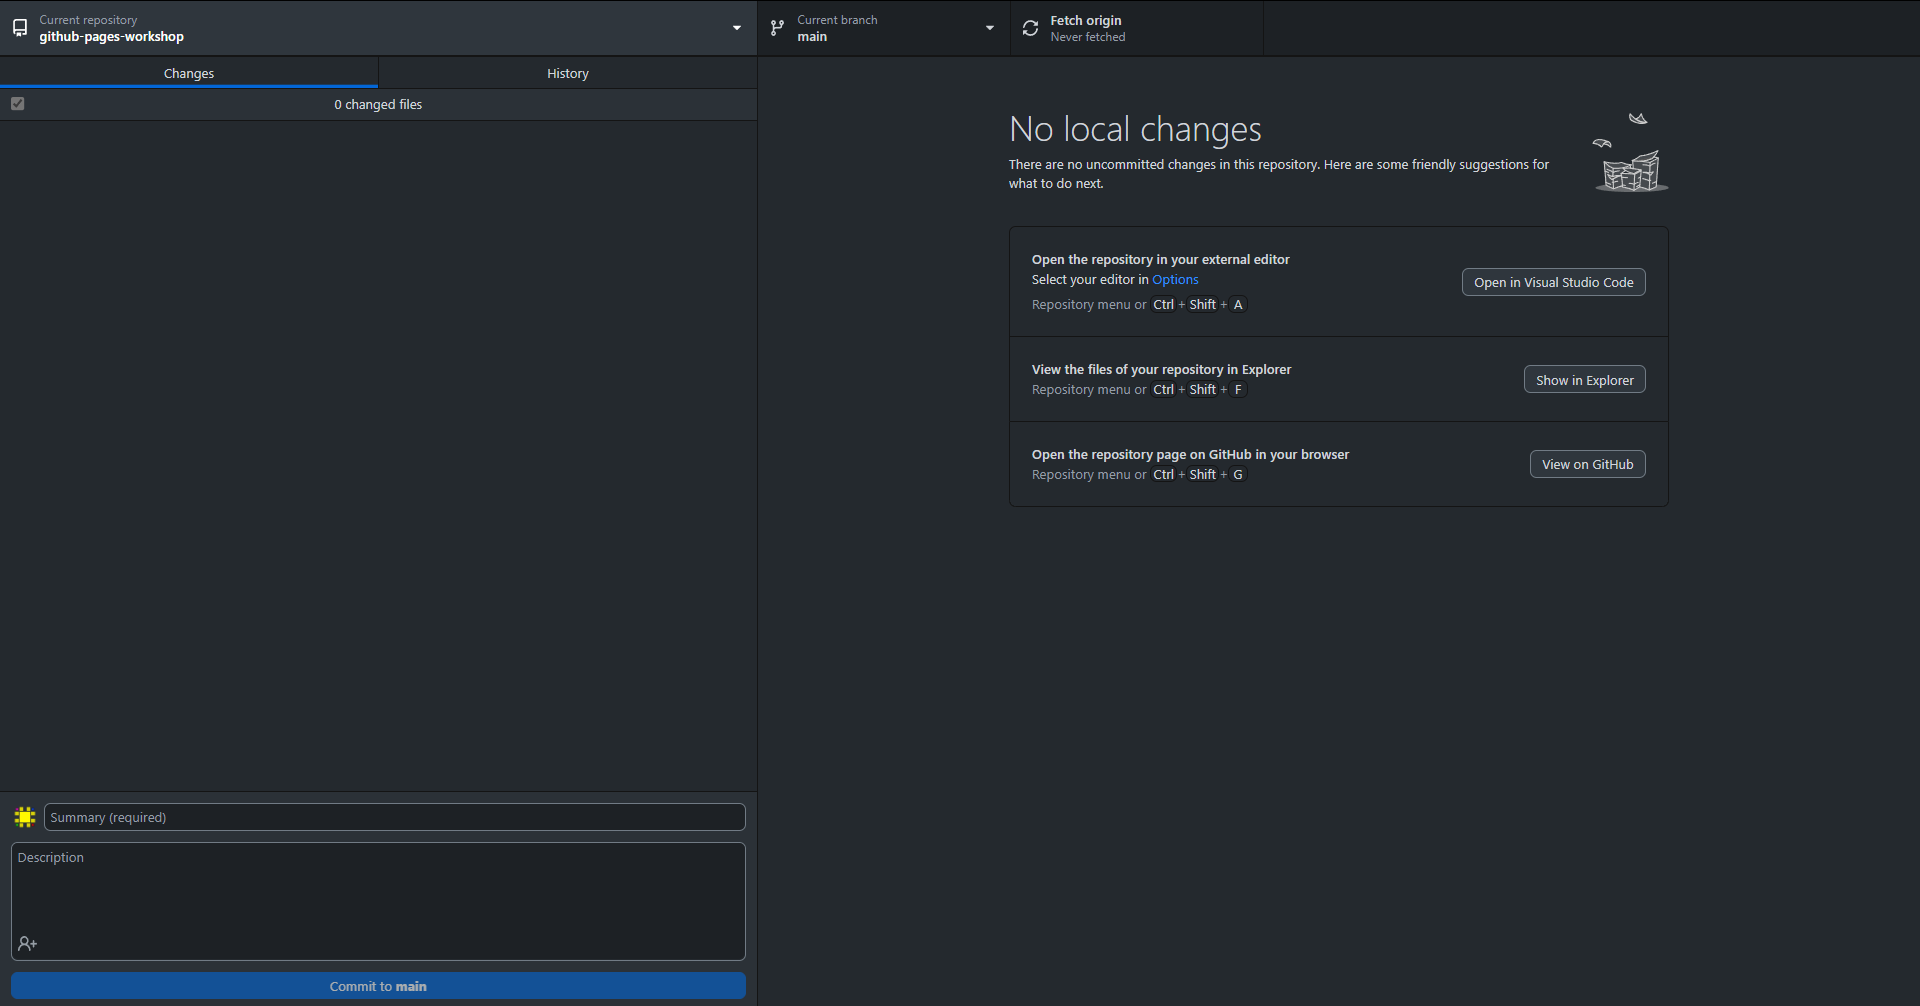
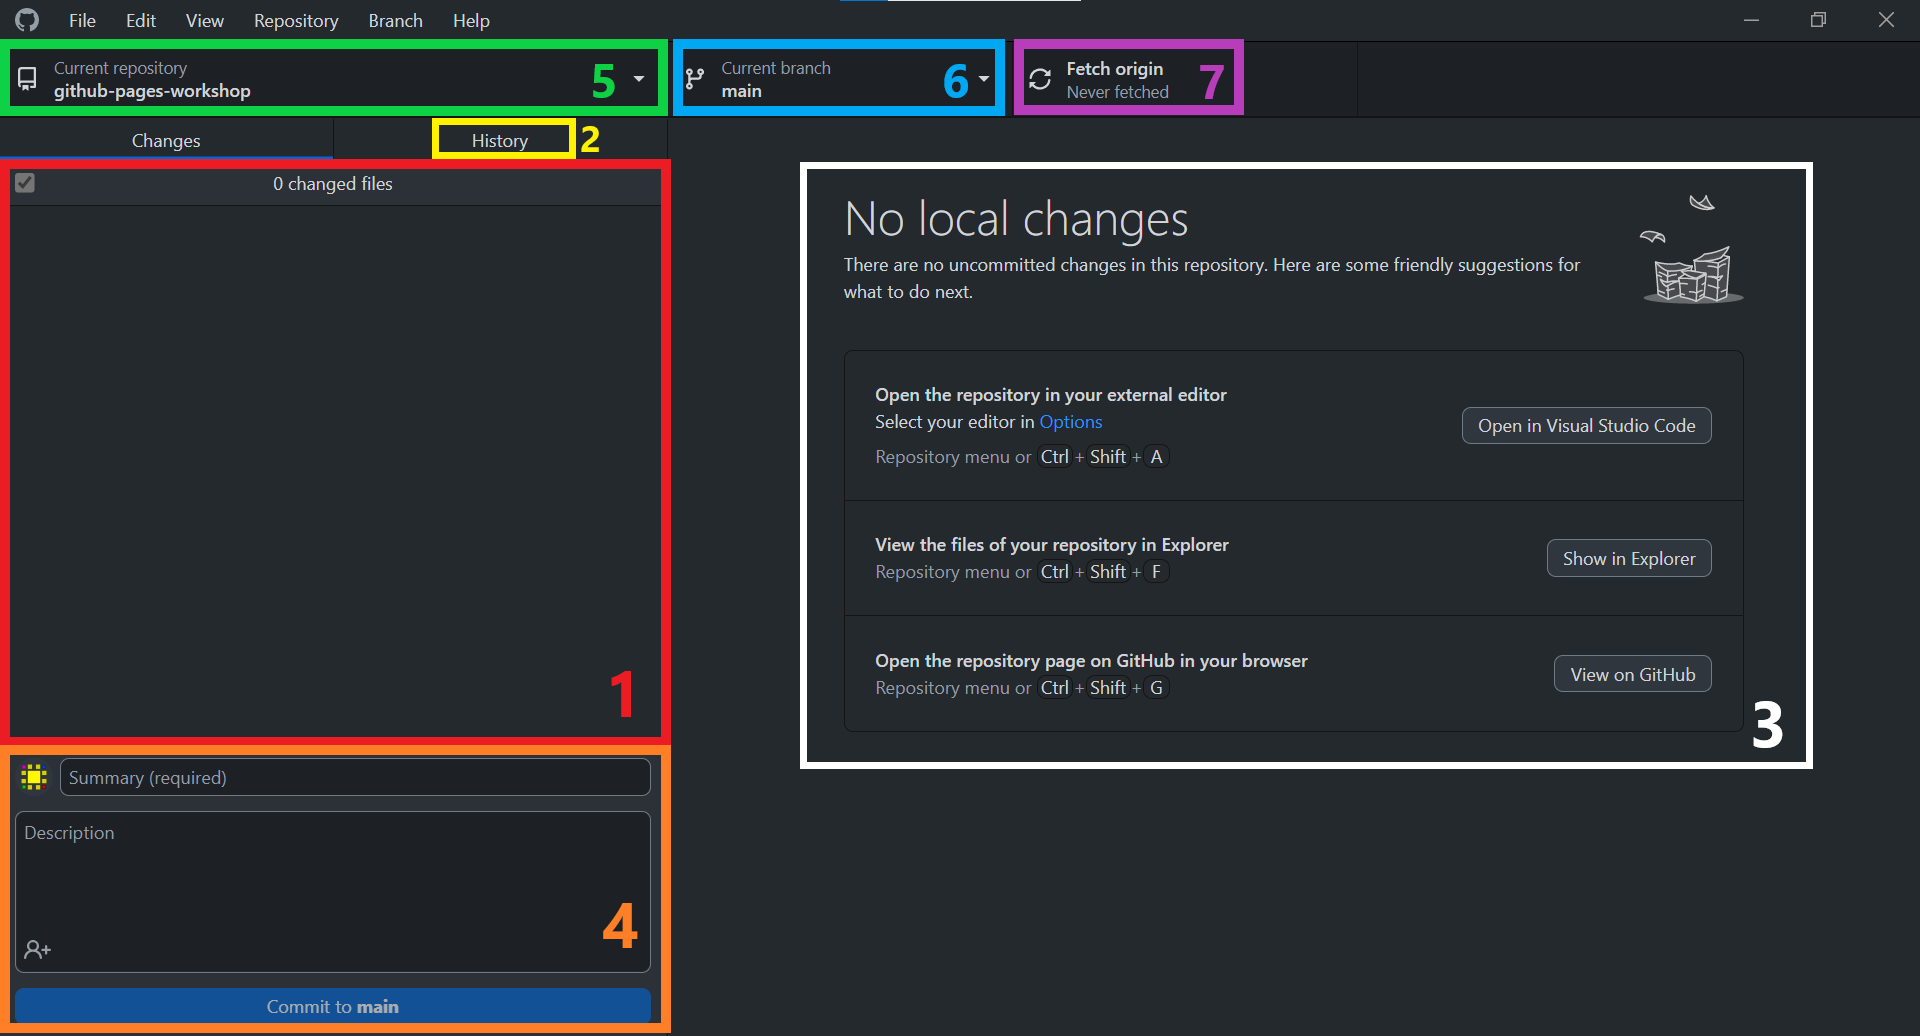
Apply Jay's recommendations

diff --git a/lessons/lesson2.md b/lessons/lesson2.md
@@ -49,7 +49,7 @@ A repository is a container for related materials (i.e. folders and files), that
 - Set your repository visibility to public. 
   - If you have a free GitHub account, you can only create a GitHub Pages website in a public repository. You can read more about it [here](https://docs.github.com/en/pages/getting-started-with-github-pages/about-github-pages).
 - Check the box to **Initialize this repository with a README**
-  - Your README file is a plain text file (same as a .txt file) that typically contains descriptive information about your repository (Who made it? What does it contain? What is it for?, etc.). The ```.md``` extension indicates to GitHub that this is a Markdown file (sounds familiar!) One of the nice features of markdown files is that they are readable by almost any applications (and humans), since they are mostly just plain text files.
+  - Your README file is a plain text file (same as a .txt file) that typically contains descriptive information about your repository (Who made it? What does it contain? What is it for?, etc.). The ```.md``` extension indicates to GitHub that this is a Markdown file (sounds familiar!) One of the nice features of markdown files is that they are readable by almost any application (and humans), since they are mostly just plain text files.
 
 - Click the **Create repository** button
 
@@ -65,16 +65,16 @@ You should now see the top-level of your GitHub repository. This section will go
 
 <img src="../assets/img/lessons/github4.png" alt="Image of GitHub file explorer" width="100%">
 
-- In the blue rectangle, you see your file explorer. This is where your repository's directories and files will be found. A new repository will typically contain a README.md file. As previously mentioned, the `.md` extension indicates that this is a Markdown file.
-- In the green rectangle, GitHub renders the README.md file in the current directory (if there is one). Since README is a Markdown file, you can include all the fancy features you learned from the previous lesson. 
-- You'll be able to create or upload files using the "Add file" button in the red rectangle.
+- In the blue rectangle (rectangle 1), you see your file explorer. This is where your repository's directories and files will be found. A new repository will typically contain a README.md file. As previously mentioned, the `.md` extension indicates that this is a Markdown file.
+- In the green rectangle (rectangle 2), GitHub renders the README.md file in the current directory (if there is one). Since README is a Markdown file, you can include all the fancy features you learned from the previous lesson. 
+- You'll be able to create or upload files using the "Add file" button in the red rectangle (rectangle 3).
 
 {:.no_toc}
 ### Repository Statistics
 
 <img src="../assets/img/lessons/github5.png" alt="Image of GitHub repository statistics" width="45%">
 
-- At the very top, you'll be able to find the description you created for your repository (if you made one.) Clicking on the gear icon allows you to change the description, as well as attach a website address and topics. The website and topics will be shown under the description.
+- At the very top, you'll be able to find the description you created for your repository (if you made one). Clicking on the gear icon allows you to change the description, as well as attach a website address and topics. The website and topics will be shown under the description.
 - The Readme button takes you to the same page you're currently on. Below that, you'll find stats for number of stars, number of "watches", and number of forks.
 	- Stars are GitHub's version of "likes." When users like a repository project, they can "Star" it.
     - When a user decides to "Watch" a repository, they'll receive notifications about any activities or changes within the repository.
@@ -97,6 +97,7 @@ In this section, you'll create a file and folder in your repository and upload a
 ### Create a file 
 - In the top-level repository page, click ```Add file > Create new file```.
 - Where prompted to name your file, title it ```index.md```. This creates an empty text file that GitHub will assume contains Markdown code.
+  - Note that you can create any file type with any name. However, we'll be naming it `index.md` for the purposes of this exercise.
 
 <img src="../assets/img/lessons/github7.png" alt="Image of GitHub file creation" width="100%">
 
@@ -112,7 +113,7 @@ In this section, you'll create a file and folder in your repository and upload a
 
 ### Edit your text file
 
-- Click on your ```index.html``` file to view it, and then click the edit button (pencil icon at the top right) to switch to editing mode
+- Click on your ```index.md``` file to view it, and then click the edit button (pencil icon at the top right) to switch to editing mode
 
 <img src="../assets/img/lessons/github9.png" alt="Image of GitHub edit button" width="60%">
 

diff --git a/lessons/lesson4.md b/lessons/lesson4.md
@@ -70,16 +70,21 @@ We will quickly go over the different elements in the GitHub Desktop interface.
 
 <img src="../assets/img/lessons/desktop4.png" alt="Image of GitHub Desktop interface" width="100%">
 
-On this page, we can see all the changes we've made to the repository files since the last commit. (Since this is a freshly cloned repository, there are no changes to show.) Clicking on the history button will show you the history of all the commits in the repository, much like how GitHub does.
+- In the red rectangle (#1), we can see all the changes we've made to the repository files since the last commit. Since this a freshly cloned repository, there are no changes to show.
+- Clicking on the history button in the yellow rectangle (#2) will show you the history of all the commits in the repository, much like how GitHub does.
+- When you do make changes, they'll be highlighted on the right side in the white rectangle (#3). 
+- Then, you'll be able to commit your changes by providing a commit summary with an optional description in the orange rectangle (#4), just like in the GitHub interface.
+- At the top left, in the green rectangle (#5), you can see a list of all your cloned repositories on your computer and select which one you want to work on. 
+- To the right of that, in the blue rectangle (#6), you can select what branch you're working on. 
+- To the right of that, in the purple rectangle (#7), this is where you *pull* and *push* your changes.
 
-When you do make changes, they'll be highlighted on the right side. Then, you'll be able to commit your changes by providing a commit summary (with an optional description,) just like in the GitHub interface.
+Currently, you have a local repository on your computer and a remote repository on GitHub.
 
-At the top left, you can see a list of all your cloned repositories on your computer and select which one you want to work on. To the right of that, you can select what branch you're working on. To the right of that, this is where you *pull* and *push* your changes.
+**Pull**
+: The local repository on your computer will sync with GitHub by downloading any changes made to the remote repository.  
 
-Currently, you have a local repository (GitHub Desktop) and a remote repository (GitHub).
-
-**Pull**: GitHub Desktop will sync with GitHub by downloading any changes made to the remote repository.  
-**Push**: GitHub Desktop will sync with GitHub by uploading any changes made to the local repository.
+**Push**
+: The local repository on your computer will sync with GitHub by uploading any changes made to the local repository.
 
 The typical workflow is to **pull** all changes **before** starting to work on your project, make your changes, **commit** your changes, and then **push** your work to GitHub. Doing this correctly will prevent any version conflicts of files.
 
@@ -101,10 +106,14 @@ The typical workflow is to **pull** all changes **before** starting to work on y
   - Click ```Commit to main```. This commits your changes to your local repository (but not yet to your GitHub one!). 
   - If you continue to work on your local files, you will need to again commit changes.  
 
+<img src="../assets/img/lessons/desktop6.png" alt="Image of GitHub Desktop creating a commit" width="100%">
+
 ## Push changes to your GitHub remote repository
 In this step, you'll *push* your local changes back up to your GitHub repository, so that both are synced. 
 - In GitHub Desktop, click the ```Push origin``` button to send your changes to your GitHub repository.
 - You can go back to your repository on GitHub to verify your changes.
+
+<img src="../assets/img/lessons/desktop7.png" alt="Image of GitHub Desktop pushing commits" width="100%">
 
 ## Make changes in the GitHub remote repository
 
@@ -114,7 +123,12 @@ To demonstrate how to pull, let's make a change in the remote repository.
 
 ## Pull changes to the local repository
 - In GitHub Desktop, click the **Fetch origin** button. This will check the GitHub repository to see if any changes have been made remotely.
+
+<img src="../assets/img/lessons/desktop8.png" alt="Image of GitHub Desktop fetching origin" width="100%">
+
 - In GitHub Desktop, click the **Pull origin** button to sync remote changes to your local files. 
+
+<img src="../assets/img/lessons/desktop9.png" alt="Image of GitHub Desktop pulling origin" width="100%">
 
 <!-- # Git
 These instructions assume that you have basic experience using the command line. 

diff --git a/lessons/lesson3.md b/lessons/lesson3.md
@@ -54,7 +54,7 @@ In this step, you will explore some of the functionality available in a GitHub r
 {: .note }
 > You may receive a 404 error, but after a minute, your website will appear with the content from index.md as the landing page.
 >
-> By default, GitHub Pages expects at least one file in the root folder named index.md. This file becomes the homepage for the web page (i.e. index.md is translated to index.html.)
+> By default, GitHub Pages expects at least one file in the root folder named `index.html`. Jekyll, however, lets us also use `index.md`. This file (either `index.html` or `index.md`) becomes the homepage for the web page.
 
 - Your page will look rather basic (it may look different depending on what you put in your index.md). This is because we haven't provided GitHub with a Jekyll theme for our content. In the next section, we'll take a look at Jekyll, the different themes available to us, and how to set it up.
 
@@ -97,6 +97,11 @@ To apply our theme, we have to create a new file called `_config.yml` in the top
 - Navigate back to the top-level and create a file called `_config.yml`. Don't commit just yet.
 
 This is your configuration file, and it's written in a language called [YAML](https://en.wikipedia.org/wiki/YAML) (it stands for Yet Another Markup Language. it's similar to Markdown). The `_config.yml` file provides instructions to Jekyll about how to build your website. Jekyll's config has a set of pre-defined properties, but themes can have their own properties as well (this is why it's important to read the theme's documentation!)
+
+{: .note }
+> Typically, Jekyll ignores files that start with an underscore. This can be used to hide pages from the user.
+> 
+> However, there are some special files that Jekyll looks for, also represented by underscores. `_config.yml` is one of these special files.
 
 There is ***a lot*** that you can do with Jekyll (within GitHub Pages and as a standalone application on your computer) to generate customized webpages. While only the theme information is set in your file initially, there are many ways that you can [customize it](https://docs.github.com/en/pages/setting-up-a-github-pages-site-with-jekyll/about-github-pages-and-jekyll#plugins). Here, we'll add a few changes to improve your website's functionality and appearance:
 
@@ -159,7 +164,7 @@ If all went well, your website should now be using the Just the Docs template!
 
 <img src="../assets/img/lessons/pages7.png" alt="Website" width="100%">
 
-## Creating a new page with embedded YouTube content
+## Creating a new page with embedded multimedia content
 
 Creating new pages from here on is very quick and simple.
 
@@ -167,7 +172,7 @@ Creating new pages from here on is very quick and simple.
 - Create a new Markdown file, and copy the front matter at the top.
     - Don't forget to update the `nav_order`!
 
-Anything after the front matter is Markdown, just like usual. Below, you'll see a piece of embed code. This is HTML code provided by YouTube, allowing us to embed a video right into our website. To get the embed code of any video you'd like, read [this](https://support.google.com/youtube/answer/171780?hl=en) guide by YouTube. Otherwise, feel free to use the embed code provided below. 
+Anything after the front matter is Markdown, just like usual. Below, you'll see a piece of embed code. This is embed code provided by YouTube, allowing us to embed a video right into our website. To get the embed code of any video on YouTube, read [this](https://support.google.com/youtube/answer/171780?hl=en) guide by YouTube. You can also use embed code from other media sites. Otherwise, feel free to use the embed code provided below. 
 
 - Copy the embed code into your new Markdown file. Feel free to include any other Markdown elements you'd like.
 - **Commit** and save your file when you're done.

diff --git a/conclusion.md b/conclusion.md
@@ -26,21 +26,17 @@ To learn more about any particular topic, take a look at the links below.
 
 ## More about Jekyll
 *From [jekyllrb.com](https://jekyllrb.com/):*
->“Jekyll is a static site generator. You give it text written in your favorite markup language and it uses layouts to create a static website. You can tweak how you want the site URLs to look, what data gets displayed on the site, and more.”
-- GitHub pages uses jekyll to turn your markdown files (hosted in your GitHub repo) into HTML files and presents them on your desired website. 
-- Jekyll [web page](https://jekyllrb.com/) and Jekyll project [on GitHub](https://github.com/jekyll/jekyll).
+> “Jekyll is a static site generator. You give it text written in your favorite markup language and it uses layouts to create a static website. You can tweak how you want the site URLs to look, what data gets displayed on the site, and more.”
 
-## Jekyll Themes
+GitHub pages uses Jekyll to turn your markdown files (hosted in your GitHub repo) into HTML files and presents them on your desired website. 
+- To learn more about Jekyll, visit its [web page](https://jekyllrb.com/) or the [Jekyll project on GitHub](https://github.com/jekyll/jekyll).
+
+Some websites to find themes for Jekyll are listed below.
 - [jamstackthemes.dev](https://jamstackthemes.dev/ssg/jekyll/)
 - [jekyllthemes.org](http://jekyllthemes.org/)
 - [jekyllthemes.io](https://jekyllthemes.io/)
 - [jekyll-themes.com](https://jekyll-themes.com/)
 
-## Learn about Git and GitHub Desktop
-If you're interested in learning more about how you can do version control in your local folders and connect them to GitHub repositories see: 
-- [Version Control with Git](https://scds.github.io/dash-webinars/vcgit.html) from SCDS.
-- [This intro to GitHub Desktop tutorial](https://docs.github.com/en/desktop/installing-and-configuring-github-desktop/creating-your-first-repository-using-github-desktop) from GitHub.
-
-## More about Version Control with Git
-- [Official Git documentation page](https://git-scm.com/book/en/v2/)
+## Related Workshops
+- [Version Control with Git](https://scds.github.io/dash-webinars/vcgit.html).
 - [The Smart Ways to Correct Mistakes in Git](https://css-tricks.com/the-smart-ways-to-correct-mistakes-in-git/) 
